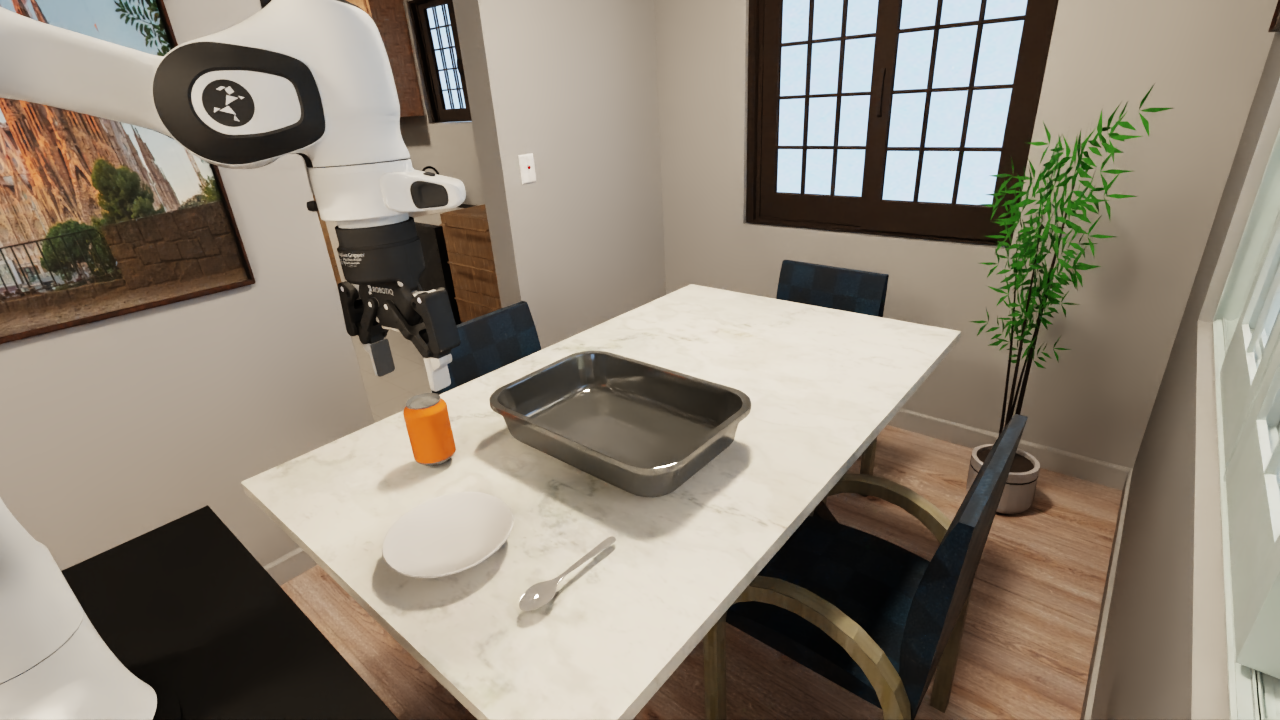
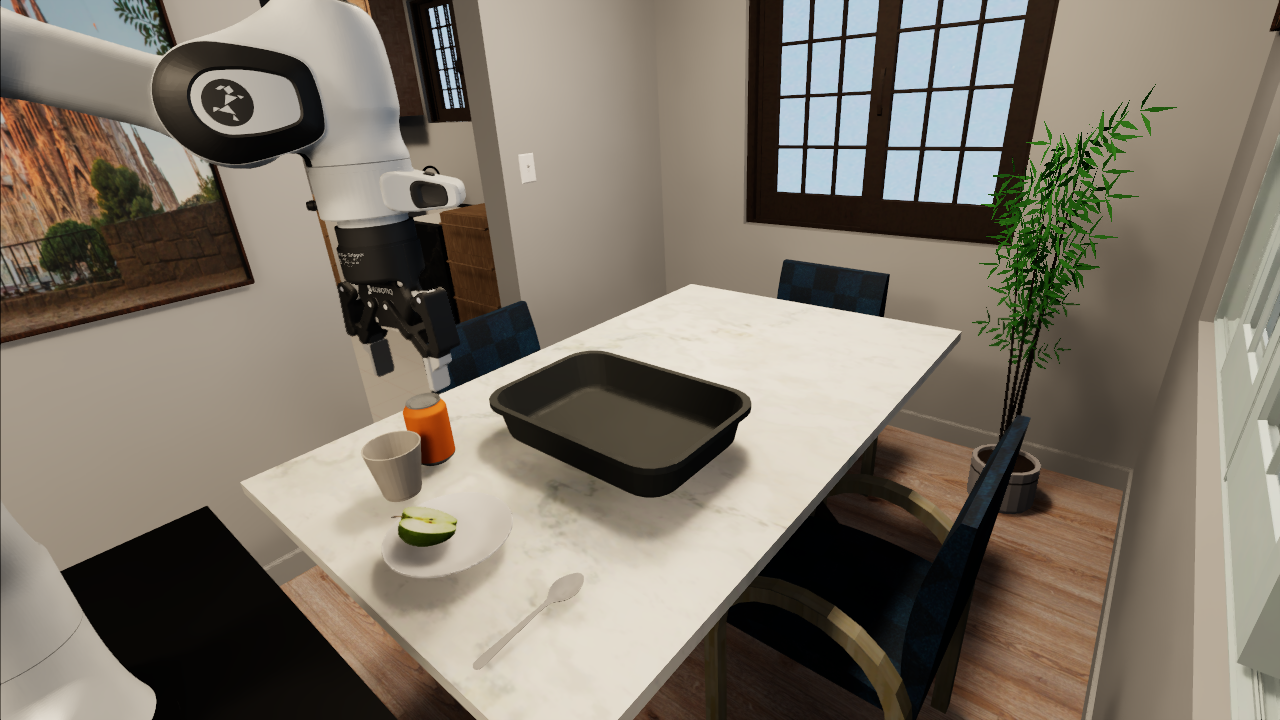
image wheel

diff --git a/realm/index.html b/realm/index.html
@@ -335,13 +335,13 @@
     <div class="columns is-centered">
       <div class="column is-full-width">
         <h2 class="title is-3 has-text-centered">Perturbations</h2>
-        <div class="content has-text-centered">
+        <!--div class="content has-text-centered">
             <p style="font-size:18px">
                 <b style="color:red;">!!! Sadly, we currently cannot show you the rendered images for some visual
                     perturbations in the demo below - our GPU cluster died prior to the workshop and is still out of order. !!!
                 </b>
             </p>
-        </div>
+        </div-->
         <div class="perturbation-container">
           <!-- SVG and Image will be generated here -->
         </div>
@@ -733,7 +733,7 @@ the capabilities for any autonomous real-world deployment.
         } else if (category === 'VB-MOBJ') {
             $('#perturbation-instruction').text('"Pick up the spoon."');
         } else if (category === 'VSB-NOBJ') {
-            $('#perturbation-instruction').text('"Pick up the <new object>"');
+            $('#perturbation-instruction').text('"Pick up the **new object**"');
         } else {
             $('#perturbation-instruction').text('"Pick up the spoon."');
         }
